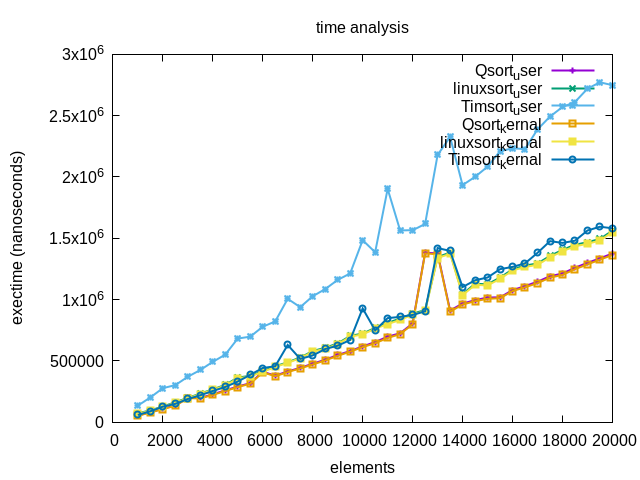
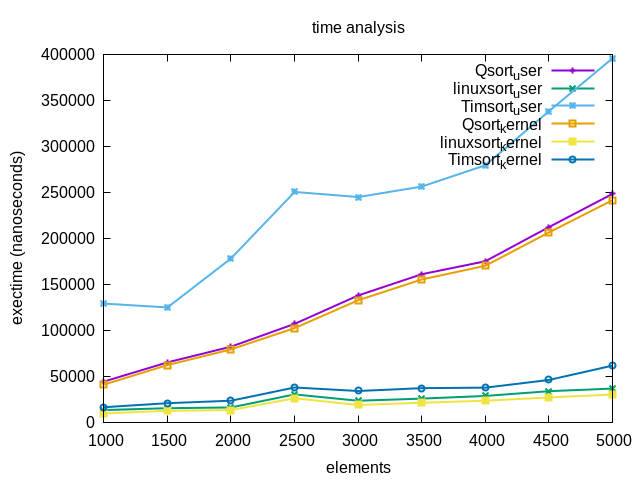
Add xor kernel module to replace old random number
The random number generate by XORSHIFT128+ is more
chaos,so we add this implement into K sort.

diff --git a/user.c b/user.c
@@ -1,5 +1,7 @@
+#include <errno.h>
 #include <fcntl.h>
 #include <stdbool.h>
+#include <stdint.h>
 #include <stdio.h>
 #include <stdlib.h>
 #include <sys/ioctl.h>
@@ -9,11 +11,14 @@
 #include "sort_types.h"
 
 #define KSORT_DEV "/dev/sort"
+
 #define TIMSORT 0
 #define LINUXSORT 1
 #define PDQSORT 2
 #define QSORT 3
 
+#define MAX_BYTES_PER_READ 8
+static unsigned char rx[MAX_BYTES_PER_READ]; /* Receive buffer from the LKM */
 
 typedef struct {
     unsigned long long qsort_user;
@@ -26,11 +31,18 @@ typedef struct {
 
 sorttime time_analysis(size_t);
 
+void zero_rx(void)
+{
+    for (int b_idx = 0; b_idx < MAX_BYTES_PER_READ; b_idx++) {
+        rx[b_idx] = 0;
+    }
+}
+
 int main()
 {
     FILE *file = fopen("output.csv", "w");
     sorttime result;
-    size_t start = 1000, end = 20000;
+    size_t start = 1000, end = 10000;
     size_t step = 500;
 
     for (size_t k = start; k <= end; k += step) {
@@ -47,11 +59,11 @@ int main()
 sorttime time_analysis(size_t num)
 {
     int fd = open(KSORT_DEV, O_RDWR);
+
     if (fd < 0) {
         perror("Failed to open character device");
         goto error;
     }
-
     bool pass = true;
 
     struct timespec start, end;
@@ -61,14 +73,34 @@ sorttime time_analysis(size_t num)
     size_t size = n_elements * sizeof(int);
     int *inbuf = malloc(size);
 
-
     if (!inbuf) {
         goto error;
     }
 
     { /*Timsort test*/
-        for (size_t i = 0; i < n_elements; i++)
-            inbuf[i] = rand() % n_elements;
+        // for (size_t i = 0; i < n_elements; i++){
+        //     inbuf[i] = rand() % n_elements;
+        // }
+        for (size_t n_bytes = 1; n_bytes <= n_elements; n_bytes++) {
+            /* Clear/zero the buffer before copying in read data. */
+            zero_rx();
+
+            /* Read the response from the LKM. */
+            ssize_t n_bytes_read = read(fd, rx, n_bytes);
+
+            if (0 > n_bytes_read) {
+                perror("Failed to read all bytes.");
+
+                goto error;
+            }
+
+            uint64_t value_ = 0;
+            for (int b_idx = 0; b_idx < n_bytes_read; b_idx++) {
+                unsigned char b = rx[b_idx];
+                value_ |= ((uint64_t) b << (8 * b_idx));
+            }
+            inbuf[n_bytes - 1] = value_ % n_elements;
+        }
 
         sort_method_t method = TIMSORT;
         if (write(fd, &method, sizeof(method)) != sizeof(method)) {
@@ -111,8 +143,28 @@ sorttime time_analysis(size_t num)
     }
 
     { /*Linux sort test*/
-        for (size_t i = 0; i < n_elements; i++)
-            inbuf[i] = rand() % n_elements;
+        // for (size_t i = 0; i < n_elements; i++)
+        //     inbuf[i] = rand() % n_elements;
+        for (size_t n_bytes = 1; n_bytes <= n_elements; n_bytes++) {
+            /* Clear/zero the buffer before copying in read data. */
+            zero_rx();
+
+            /* Read the response from the LKM. */
+            ssize_t n_bytes_read = read(fd, rx, n_bytes);
+
+            if (0 > n_bytes_read) {
+                perror("Failed to read all bytes.");
+
+                goto error;
+            }
+
+            uint64_t value_ = 0;
+            for (int b_idx = 0; b_idx < n_bytes_read; b_idx++) {
+                unsigned char b = rx[b_idx];
+                value_ |= ((uint64_t) b << (8 * b_idx));
+            }
+            inbuf[n_bytes - 1] = value_ % n_elements;
+        }
 
         sort_method_t method = LINUXSORT;
         if (write(fd, &method, sizeof(method)) != sizeof(method)) {
@@ -156,8 +208,28 @@ sorttime time_analysis(size_t num)
     }
 
     { /*qsort test*/
-        for (size_t i = 0; i < n_elements; i++)
-            inbuf[i] = rand() % n_elements;
+        // for (size_t i = 0; i < n_elements; i++)
+        //     inbuf[i] = rand() % n_elements;
+        for (size_t n_bytes = 1; n_bytes <= n_elements; n_bytes++) {
+            /* Clear/zero the buffer before copying in read data. */
+            zero_rx();
+
+            /* Read the response from the LKM. */
+            ssize_t n_bytes_read = read(fd, rx, n_bytes);
+
+            if (0 > n_bytes_read) {
+                perror("Failed to read all bytes.");
+
+                goto error;
+            }
+
+            uint64_t value_ = 0;
+            for (int b_idx = 0; b_idx < n_bytes_read; b_idx++) {
+                unsigned char b = rx[b_idx];
+                value_ |= ((uint64_t) b << (8 * b_idx));
+            }
+            inbuf[n_bytes - 1] = value_ % n_elements;
+        }
 
         sort_method_t method = QSORT;
         if (write(fd, &method, sizeof(method)) != sizeof(method)) {
@@ -202,5 +274,7 @@ error:
     free(inbuf);
     if (fd > 0)
         close(fd);
+    // if (fdxoro > 0)
+    //     close(fdxoro);
     return time;
 }

diff --git a/test_xoro.c b/test_xoro.c
@@ -24,7 +24,7 @@ int main(int argc, char *argv[])
     }
 
     /* Test reading different numbers of bytes. */
-    for (int n_bytes = 0; n_bytes < 10; n_bytes++) {
+    for (size_t n_bytes = 1; n_bytes < 70; n_bytes++) {
         /* Clear/zero the buffer before copying in read data. */
         zero_rx();
 
@@ -38,12 +38,11 @@ int main(int argc, char *argv[])
         }
 
         uint64_t value_ = 0;
-        for (int b_idx = 0; b_idx < n_bytes_read; b_idx++) {
+        for (size_t b_idx = 0; b_idx < n_bytes_read; b_idx++) {
             unsigned char b = rx[b_idx];
             value_ |= ((uint64_t) b << (8 * b_idx));
         }
-        printf("n_bytes=%d n_bytes_read=%ld value=%016lx\n", n_bytes,
-               n_bytes_read, value_);
+        printf("value: %lu\n", value_);
     }
     fflush(stdout);
 
